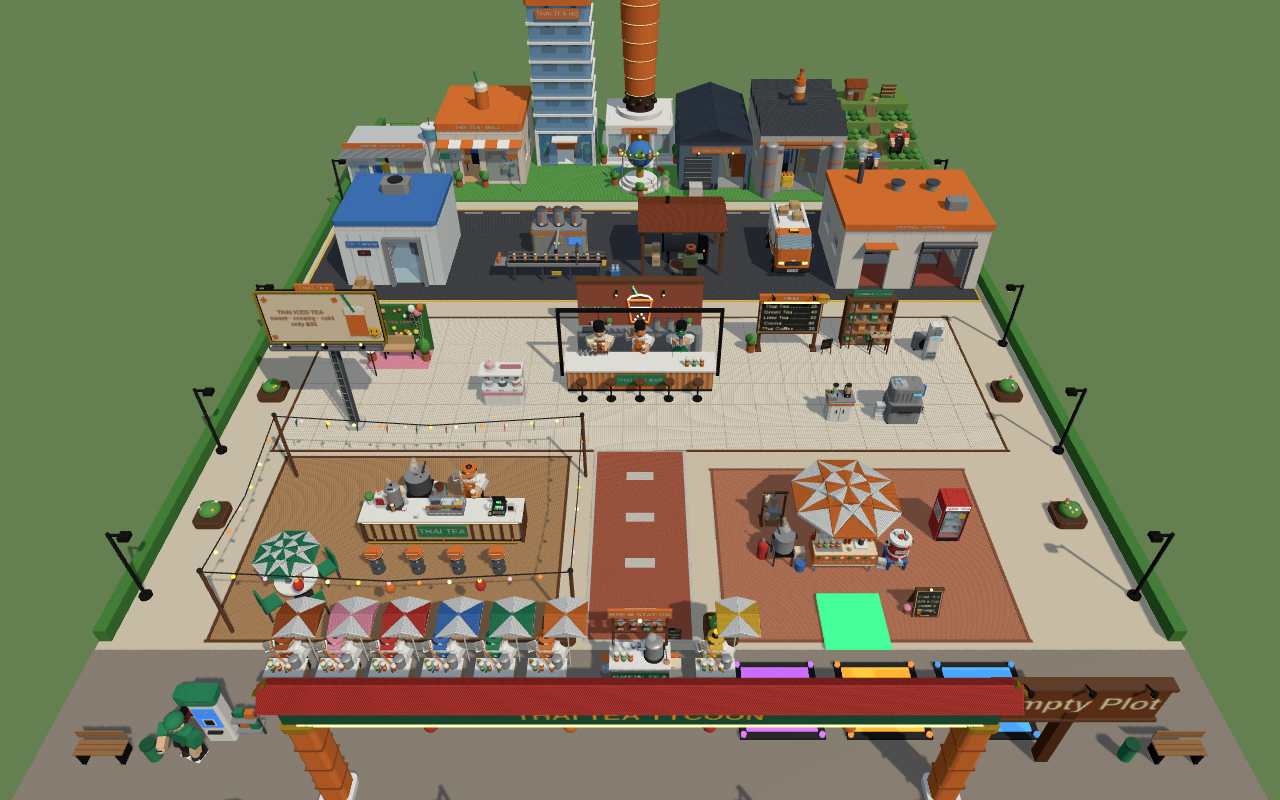
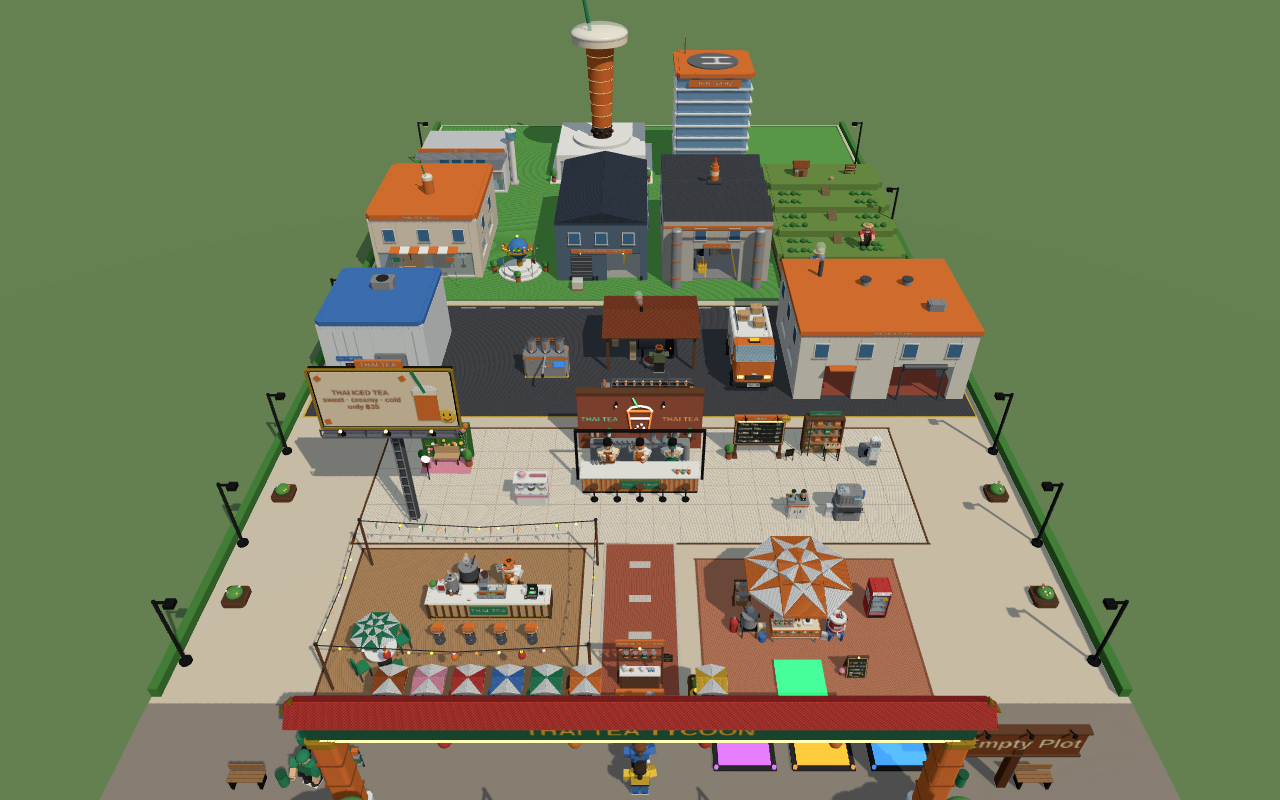
Taller buildings with upper windows, bigger signs and landmarks
Walk-in buildings (kitchen, cold room, factory, distribution center, mall,
airport) get 13-14 stud walls and a decorative upper-window row; interiors,
lamps (longer cords), hood duct and people stay human-sized. The umbrella,
neon wall and billboard join ItemModels.Uniform, and a new DecorUniform
enlarges the arch, lamps, trees and fountains. Two pads move clear of the
bigger models and the owner sign moves clear of the wider arch.

EffectsClient: pop-in now returns to the model's own scale instead of 1
(uniformly scaled items such as the van shrank after popping in), and the
belt/sign scan skips models mid pop-in instead of requiring scale 1.
Preview dump uses the Base ItemOriginZ like PlotService.

Claude-Session: https://claude.ai/code/session_019Er3azd1WZWSF6N8CYPddW

diff --git a/roblox/thai-tea-tycoon/README.md b/roblox/thai-tea-tycoon/README.md
@@ -77,7 +77,9 @@
 **อาคารเดินเข้าได้ 8 หลัง** มีของข้างในครบ: ครัวกลาง ห้องเย็น โรงงาน ศูนย์กระจายสินค้า HQ (ล็อบบี้ + เห็นโต๊ะทำงานทุกชั้นผ่านกระจก) สาขาห้าง สนามบิน ตึกแก้วชาไทย (ล็อบบี้)
 ตำแหน่งทุกชิ้นแก้ได้ที่ `ItemModels.Layout` ส่วนหน้าตาแก้ได้ที่ฟังก์ชัน `Build.Lxx` ของชิ้นนั้น ของตกแต่งส่วนกลาง (ซุ้มประตู กรอบแผ่นซื้อ บูธเก็บเงิน ไฟทาง ต้นไม้ ม้านั่ง น้ำพุ) อยู่ใน `Decor`
 
-**จำนวน Part:** ประมาณ 4,950 ต่อฐานเมื่อซื้อครบ (รวมพนักงาน 6 คน ตัวละครแบบละเอียด และขอบมน) รวม 6 ฐาน + ลานกลาง ≈ 30,000 ของที่ยังไม่ซื้อเก็บอยู่ใน ServerStorage ไม่ถูกวาด ลูกค้าที่เดินต่อคิวสร้างบนเครื่องผู้เล่นแต่ละคน (สูงสุด ~5 คนต่อฐาน เฉพาะฐานที่มีเจ้าของและอยู่ใกล้กล้อง) ไม่กินเน็ตเซิร์ฟเวอร์
+**ขนาด:** ตึกเดินเข้าได้สูง 13–14 studs มีหน้าต่างชั้นบน ป้ายบิลบอร์ด ร่มตลาด กำแพงนีออน ซุ้มประตู เสาไฟ ต้นไม้ และน้ำพุขยายใหญ่ขึ้น 1.25–1.5 เท่า ส่วนเคาน์เตอร์ โต๊ะ และตัวละครคงขนาดคนจริง
+
+**จำนวน Part:** ประมาณ 5,100 ต่อฐานเมื่อซื้อครบ (รวมพนักงาน 6 คน ตัวละครแบบละเอียด และขอบมน) รวม 6 ฐาน + ลานกลาง ≈ 31,000 ของที่ยังไม่ซื้อเก็บอยู่ใน ServerStorage ไม่ถูกวาด ลูกค้าที่เดินต่อคิวสร้างบนเครื่องผู้เล่นแต่ละคน (สูงสุด ~5 คนต่อฐาน เฉพาะฐานที่มีเจ้าของและอยู่ใกล้กล้อง) ไม่กินเน็ตเซิร์ฟเวอร์
 เพื่อให้มือถือไม่กระตุก แนะนำเปิด **Workspace → StreamingEnabled = true** (ใน Properties ของ Workspace) เครื่องผู้เล่นจะโหลดเฉพาะบริเวณใกล้ตัว ชิ้นเล็กถูกปิดเงาไว้แล้ว
 
 ทดสอบหลายคน: แท็บ **Test → Clients and Servers → 2 Players → Start**

diff --git a/roblox/thai-tea-tycoon/CLAUDE.md b/roblox/thai-tea-tycoon/CLAUDE.md
@@ -40,9 +40,13 @@ Never put a model name in commits, PRs or code.
 - Real-world scale: character 5.5 studs ≈ 1.75 m. Small props are built life-size; tier 4-5 buildings are enlarged
   after building (`ItemModels.Footprint`: Shell parts and parts spanning half the building grow in X/Z, other
   parts move as clusters of touching parts and keep their size; `ItemModels.Uniform`: whole-model ScaleTo).
+  Walk-in buildings also have 13-14 stud walls (L29/L34/L39/L40/L42/L43) with a decorative `Builder:UpperWindows`
+  row; interiors, lamps and people stay at human height. `ItemModels.Uniform` also enlarges the umbrella L07, neon
+  wall L28 and billboard L37; `ItemModels.DecorUniform` enlarges arch, lamps, trees and fountains.
+  EffectsClient pop-in scales back to the model's own `GetScale()`, never to 1.
 - Plot space: 120 wide, z -65 (front) .. 140 (back); Base centred at `ItemModels.PlotCenterZ`, PlotService reads
   the offset from the Base attribute `ItemOriginZ`. Plot centers are 130 apart.
-- Part budget: ≈ 4,950 parts per full plot, ≈ 30,000 for the map. StreamingEnabled recommended.
+- Part budget: ≈ 5,100 parts per full plot, ≈ 31,000 for the map. StreamingEnabled recommended.
 
 ## Conventions
 
